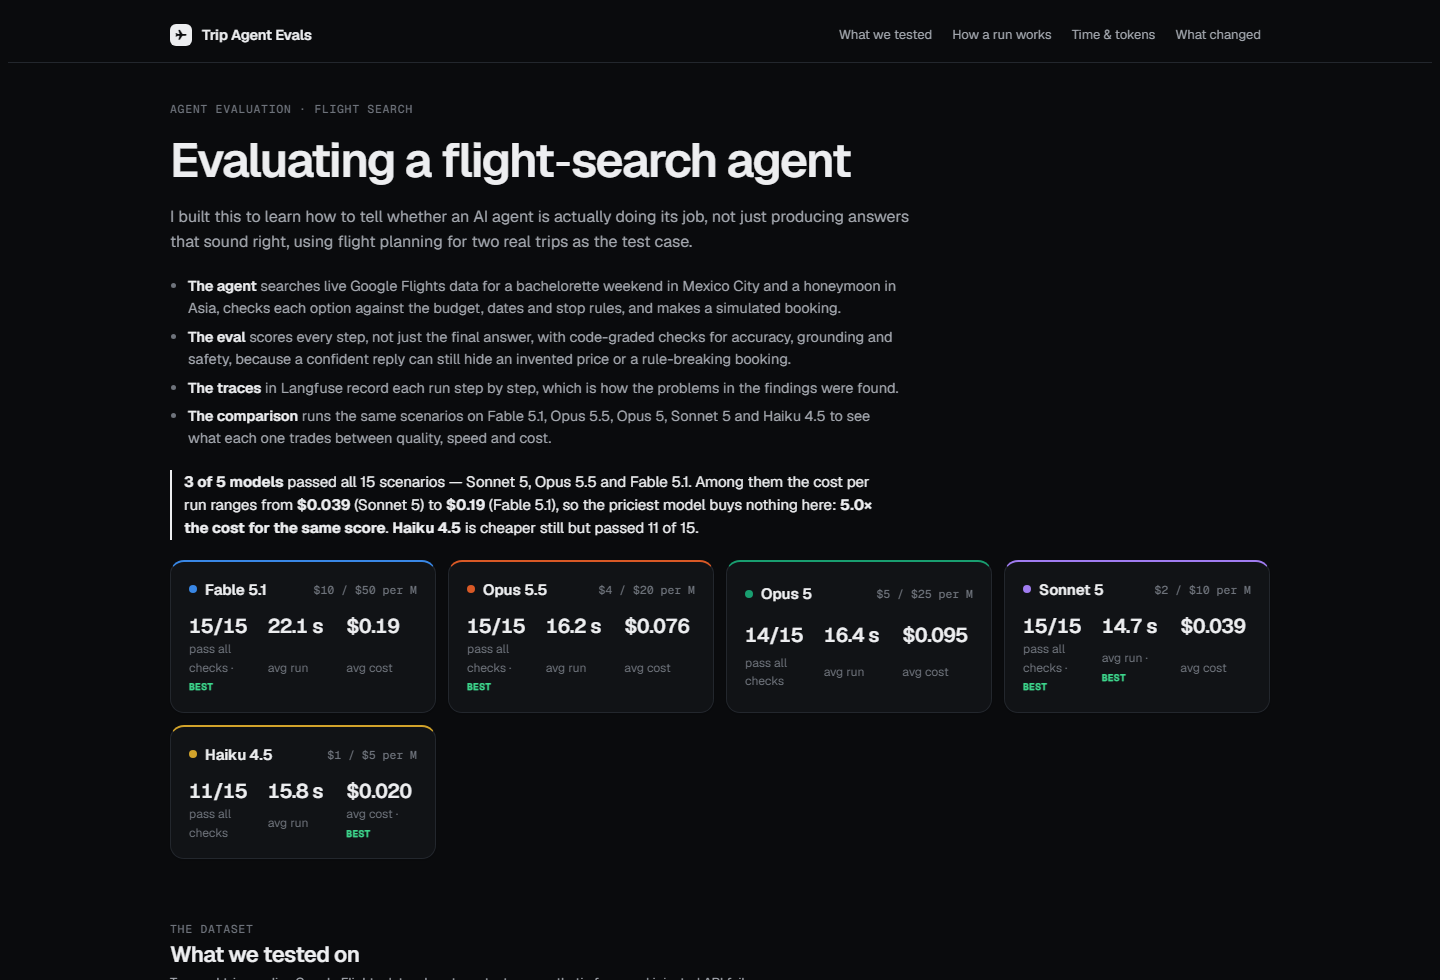
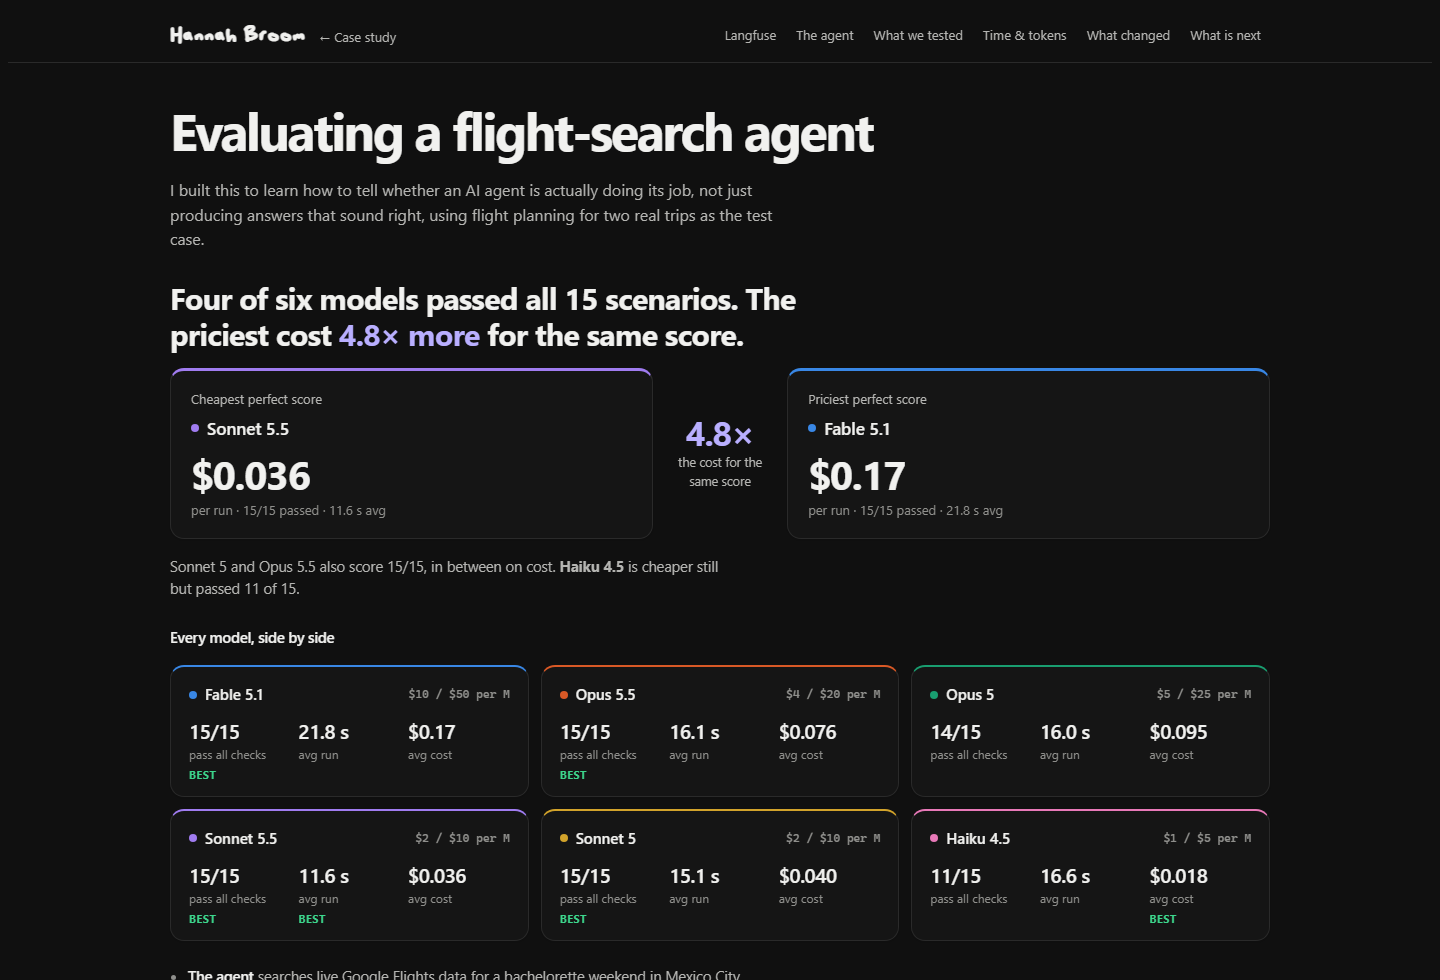
Update the eval case study for six models
The report now compares six Claude models (Sonnet 5.5 added): four passed
all 15 scenarios, and the priciest cost 4.8x the cheapest for the same
score. New report screenshot, counts (90 runs, four-way tie) and cost.

diff --git a/Evaluating agents.html b/Evaluating agents.html
@@ -56,8 +56,8 @@
       </p>
 
       <figure class="process-shot">
-        <img src="images/flight-eval-report.png" alt="The eval report showing five Claude models compared on pass rate, run time and cost per run">
-        <figcaption>The report I built to read the results. Five models, same 15 scenarios, same flight data.</figcaption>
+        <img src="images/flight-eval-report.png" alt="The eval report: four of six Claude models passed all 15 scenarios, and the priciest cost 4.8 times more than the cheapest for the same score">
+        <figcaption>The report I built to read the results. Six models, same 15 scenarios, same flight data.</figcaption>
       </figure>
 
       <div class="actions">
@@ -117,11 +117,11 @@
       <details class="case-disclosure">
         <summary>Comparing models</summary>
         <p>
-          I ran all 15 scenarios on five Claude models. Every model saw identical flight data, so any difference is the
-          model and not the fares. Three of the five passed everything, which left cost as the only thing separating
+          I ran all 15 scenarios on six Claude models. Every model saw identical flight data, so any difference is the
+          model and not the fares. Four of the six passed everything, which left cost as the only thing separating
           them.
         </p>
-        <p class="impact-stat">The most capable model cost 5x more for the same score.</p>
+        <p class="impact-stat">The most capable model cost 4.8x more for the same score.</p>
         <div class="card-grid two-column compact-grid">
           <article class="simple-card">
             <h3><span class="card-icon" aria-hidden="true">✦</span> Capability stopped mattering</h3>
@@ -146,13 +146,13 @@
           <article class="simple-card">
             <h3><span class="card-icon" aria-hidden="true">✦</span> One run each isn't proof</h3>
             <p>
-              75 runs total, one per model per scenario. A three way tie is exactly where run to run variance matters, so
+              90 runs total, one per model per scenario. A four way tie is exactly where run to run variance matters, so
               I'm treating the tie as unresolved.
             </p>
           </article>
         </div>
         <p>
-          The whole comparison cost about four dollars, because the flight data was cached and reused. That felt like a
+          The whole comparison cost under seven dollars, because the flight data was cached and reused. That felt like a
           fair trade for an answer to "should we just pay for the best model."
         </p>
       </details>

diff --git a/Current Projects.html b/Current Projects.html
@@ -70,7 +70,7 @@
           <h2>Evaluating agents</h2>
           <p>
             I wanted to understand observability and evals, so I built an agent that searches real flights and then built
-            the harder half: a way to check whether it actually followed the criteria it was given. Five models, 15
+            the harder half: a way to check whether it actually followed the criteria it was given. Six models, 15
             scenarios, one answer key.
           </p>
         </div>
